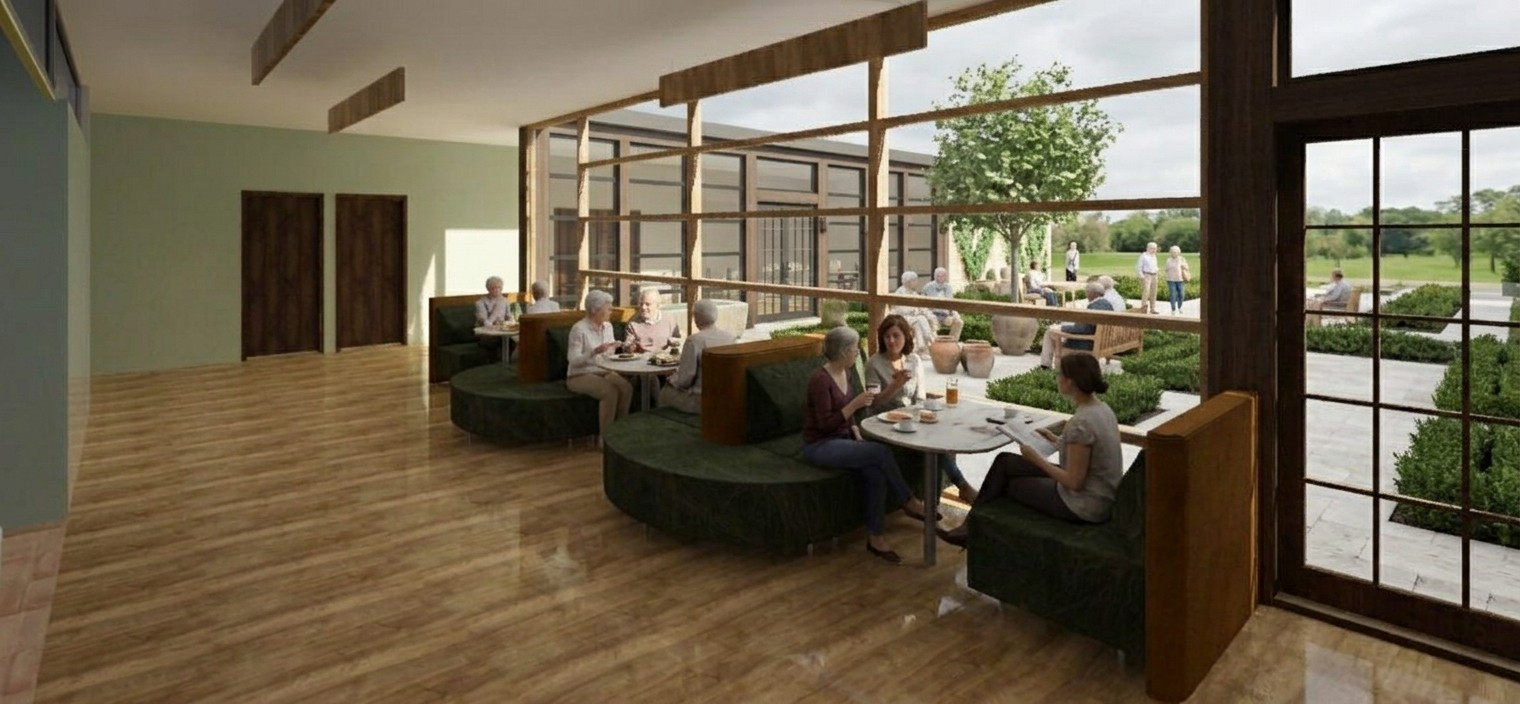
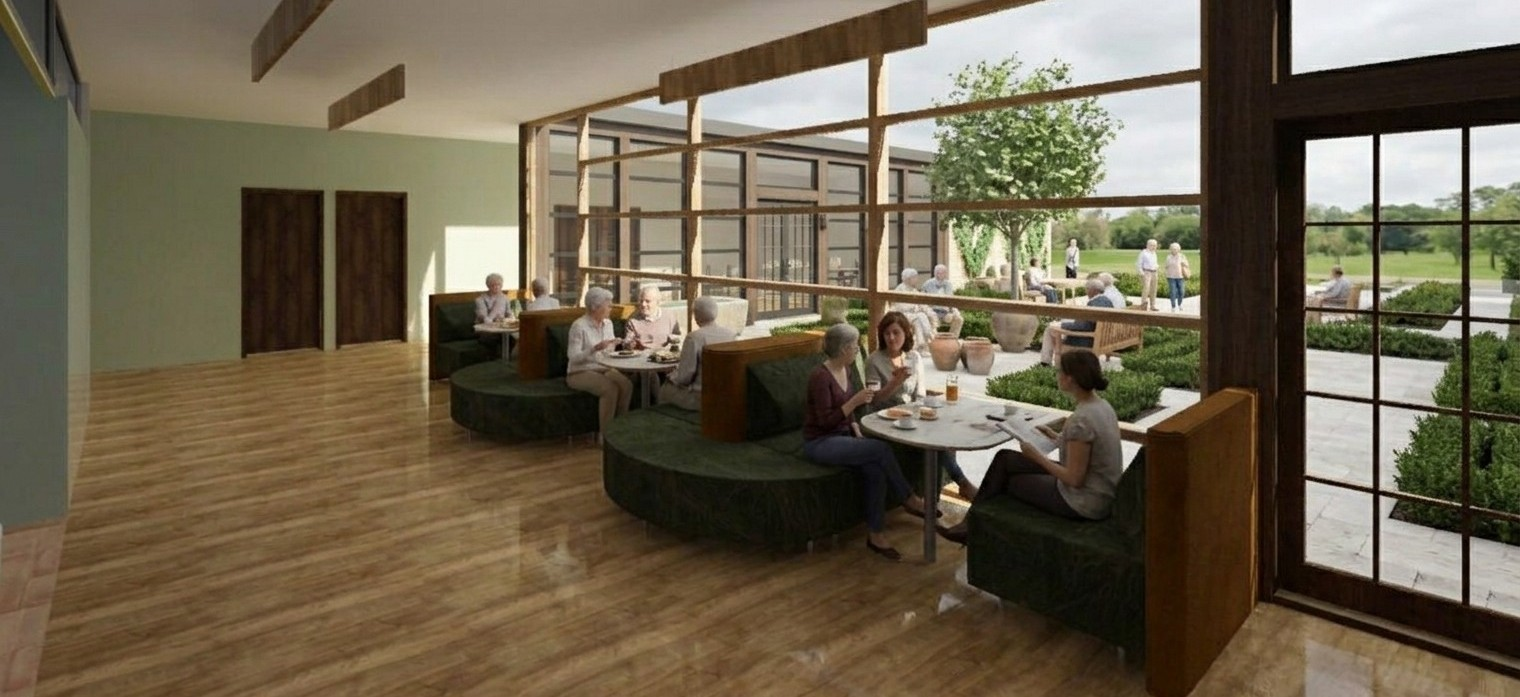
Wildflower Manor: add second dining space rendering beside its AI visualization
Claude-Session: https://claude.ai/code/session_01TyPsZ4kRQc6u5qMH3MX8Kb

diff --git a/src/content/concepts/wildflower-manor/index.md b/src/content/concepts/wildflower-manor/index.md
@@ -34,6 +34,10 @@ images:
     group: Dining room
     caption: AI-generated visualization
     alt: Dining room with curved green booths and round wood tables where residents chat over coffee, an arched wood-framed opening to a large table beyond, and a wall of windows looking out on oak trees and wildflowers
+  - src: ./22.jpg
+    group: Dining room
+    caption: 3D Rendering
+    alt: Second dining space with curved dark green booths and round tables along a wall of windows, a wood planter with a tall plant in the foreground, and a long hallway with wood doors
   - src: ./21.jpg
     group: Dining room
     caption: AI-generated visualization
